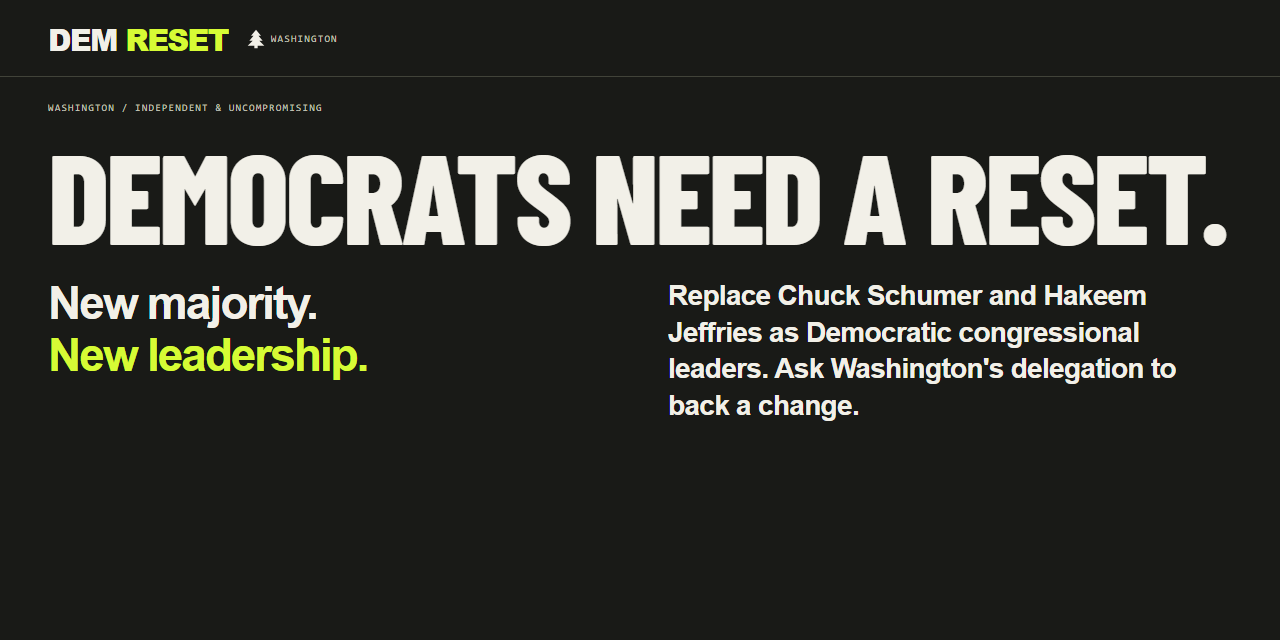
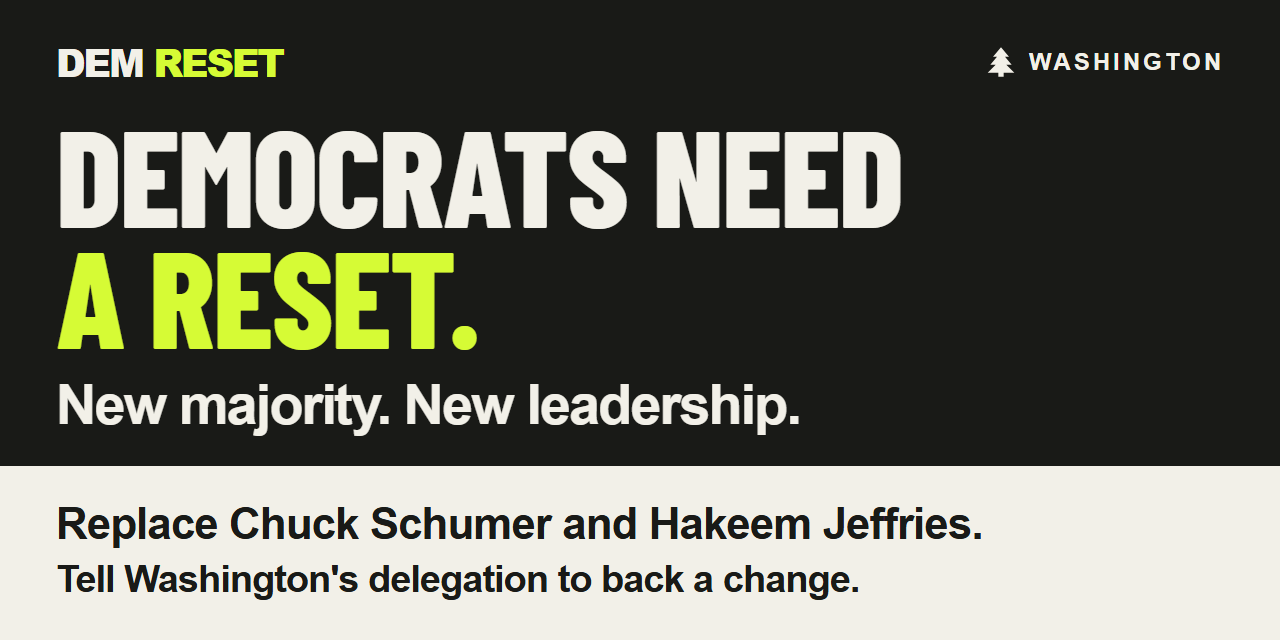
design: use approved split-field social poster
Refs: RESET-9

diff --git a/scripts/capture-social-preview.js b/scripts/capture-social-preview.js
@@ -1,21 +1,24 @@
-/* Capture the campaign hero without changing the production layout. */
+/* Render the approved campaign poster independently of the website. */
 const { chromium } = require('@playwright/test');
 const path = require('node:path');
+const { pathToFileURL } = require('node:url');
 
 (async () => {
   const browser = await chromium.launch();
   try {
     const page = await browser.newPage({ viewport: { width: 1280, height: 640 }, deviceScaleFactor: 1 });
-    await page.goto('http://127.0.0.1:4173/', { waitUntil: 'networkidle' });
+    await page.goto(pathToFileURL(path.join(__dirname, 'social-preview.html')).href);
     await page.evaluate(async () => { await document.fonts.ready; });
-    await page.addStyleTag({ content: `
-      .skip,.progress-link,.start-action,.hero-note,.workspace,.about,footer,noscript{display:none!important}
-      .masthead{position:static}.header-inner{height:76px}
-      .hero{padding:24px 0 32px}.hero h1{font-size:128px;line-height:.87;margin:24px 0 28px}
-      .hero-bottom{gap:56px}.hero-argument h2{font-size:28px;margin:0}
-    ` });
-    const bounds = await page.locator('.hero').boundingBox();
-    if (bounds.y + bounds.height > 640) throw new Error('Social preview would clip the hero');
+    const clipped = await page.locator('.poster').evaluate(poster => {
+      const bounds = poster.getBoundingClientRect();
+      return [...poster.querySelectorAll('.brand,.washington,.headline span,.tagline,.ask span')].some(el => {
+        const range = document.createRange();
+        range.selectNodeContents(el);
+        const r = range.getBoundingClientRect();
+        return r.left < bounds.left || r.right > bounds.right || r.top < bounds.top || r.bottom > bounds.bottom;
+      });
+    });
+    if (clipped) throw new Error('Social preview would clip text');
     const output = path.resolve(__dirname, '../assets/social-preview.png');
     await page.screenshot({ path: output });
     console.log(output);

diff --git a/scripts/social-preview.html b/scripts/social-preview.html
@@ -1,0 +1,29 @@
+<!doctype html>
+<html lang="en">
+<meta charset="utf-8">
+<title>DEM RESET social preview</title>
+<style>
+@font-face{font-family:Barlow;src:url('../assets/barlow-condensed-800.woff2');font-weight:800}
+:root{--ink:#191a17;--paper:#f2f0e8;--citron:#d6fb35}
+*{box-sizing:border-box}
+body{margin:0;background:var(--ink);color:var(--paper);font-family:Arial,Helvetica,sans-serif}
+.poster{width:1280px;height:640px;overflow:hidden;padding:36px 56px 0;display:flex;flex-direction:column}
+.mast{display:flex;align-items:center;justify-content:space-between;height:52px;flex-shrink:0}
+.brand{font-size:38px;font-weight:900;letter-spacing:-2px;line-height:1}
+.brand span{color:var(--citron)}
+.washington{display:flex;align-items:center;gap:12px;font-size:24px;font-weight:700;letter-spacing:3px}
+.washington img{width:32px;height:32px}
+.headline{font-family:Barlow,Impact,sans-serif;font-size:137px;font-weight:800;letter-spacing:-2px;line-height:.88;margin:25px 0 0}
+.headline span,.ask span{display:block}
+.headline span:last-child{color:var(--citron)}
+.tagline{font-size:56px;letter-spacing:-2px;font-weight:700;line-height:1.06;margin:21px 0 0}
+.ask{background:var(--paper);color:var(--ink);margin:auto -56px 0;padding:33px 56px 38px;font-size:44px;font-weight:700;letter-spacing:-1px;line-height:1.15;min-height:163px}
+.ask span:last-child{font-size:38px;margin-top:9px}
+</style>
+<article class="poster" aria-label="DEM RESET split-field placard">
+<div class="mast"><div class="brand">DEM<span> RESET</span></div><div class="washington"><img src="../assets/evergreen.svg" alt="">WASHINGTON</div></div>
+<h1 class="headline"><span>DEMOCRATS NEED</span><span>A RESET.</span></h1>
+<p class="tagline">New majority. New leadership.</p>
+<p class="ask"><span>Replace Chuck Schumer and Hakeem Jeffries.</span><span>Tell Washington's delegation to back a change.</span></p>
+</article>
+</html>

diff --git a/docs/development.md b/docs/development.md
@@ -36,7 +36,7 @@ Subject and message counters never truncate text. Verified caps and user-reporte
 
 ## Hosting and assets
 
-To regenerate [the social-preview image](../assets/social-preview.png), leave `npm start` running and run `node scripts/capture-social-preview.js` in another terminal. The capture uses the live hero, local font and evergreen at 1280 × 640, with interaction-only controls hidden on the capture page. Review the generated PNG before committing it. The Open Graph image URL targets the intended demreset.com host; preparing the image does not publish the site or update GitHub's social-preview setting.
+To regenerate [the social-preview image](../assets/social-preview.png), run `node scripts/capture-social-preview.js`. It renders the approved split-field placard in `scripts/social-preview.html`, independently of the website, using the local font and evergreen at 1280 × 640. No preview server is required. Review the generated PNG at full and 50% scale before committing it. The Open Graph image URL targets the intended demreset.com host; preparing the image does not publish the site or update GitHub's social-preview setting.
 
 No production build is needed. When deployment is authorized, publish only `index.html`, `styles.css`, `data.js`, `campaign.js`, `model.js`, `app.js`, `presentation.js`, `assets/`, `LICENSE`, `README.md` and public `docs/` together on an HTTPS static host. Do not publish the development checkout, `node_modules`, test results, credentials or private configuration. No deployment is authorized by these instructions.
 
